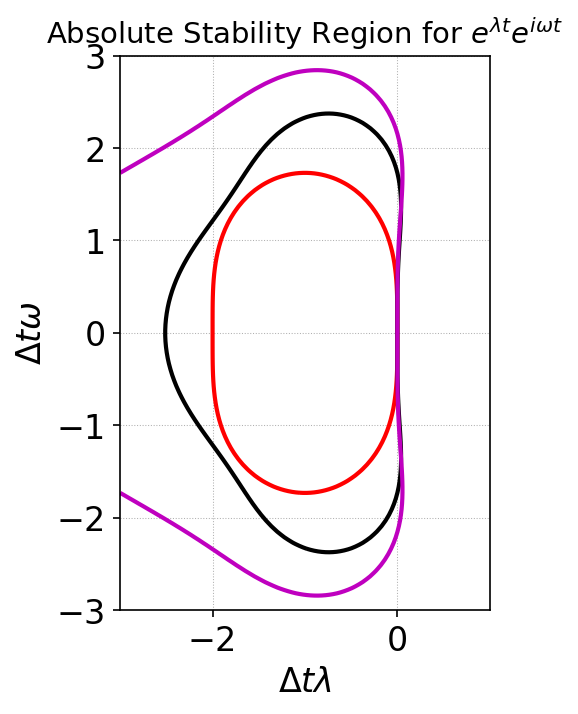
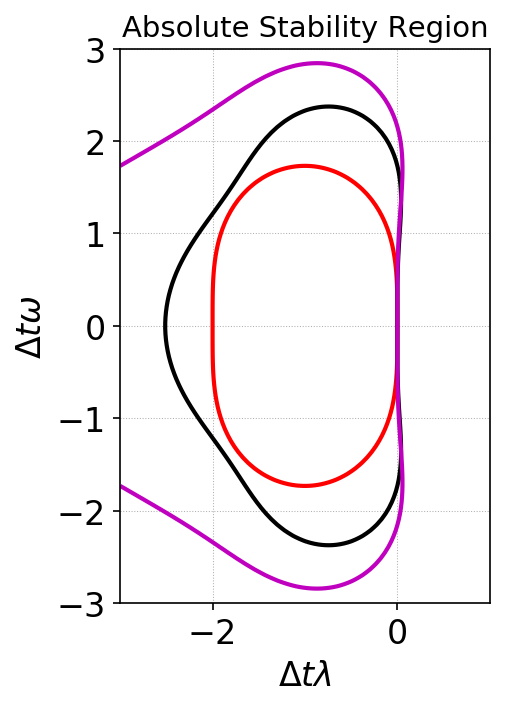
Fixed typos in figure captions

diff --git a/source/ssp-rk-abs-stability-plot.py b/source/ssp-rk-abs-stability-plot.py
@@ -18,7 +18,7 @@ cs = contour(XX, YY, WW3_4, levels=[1], colors='m')
 
 xlabel(r'$\Delta t \lambda$')
 ylabel(r'$\Delta t \omega$')
-title(r'Absolute Stability Region for $e^{\lambda t}e^{i \omega t}$')
+title(r'Absolute Stability Region')
 
 grid()
 axis('image')

diff --git a/source/ssp-rk.rst b/source/ssp-rk.rst
@@ -65,7 +65,7 @@ there is no diffusion in the system, and hence should be prefered.
   :align: center
 
   Absolute stability regions for a equation :math:`\dot{y} =
-  e^{\lambda t}e^{i\omega t}` for SSP-RK2 (red), SSP-RK3 (black) and
+  (\lambda+i\omega)y` for SSP-RK2 (red), SSP-RK3 (black) and
   four stage SSP-RK3 (magenta). When there is no diffusion
   (:math:`\lambda=0`) the SSP-RK2 scheme is slightly unstable as it
   has no intercept on the imaginary axis. Hence, the third order
